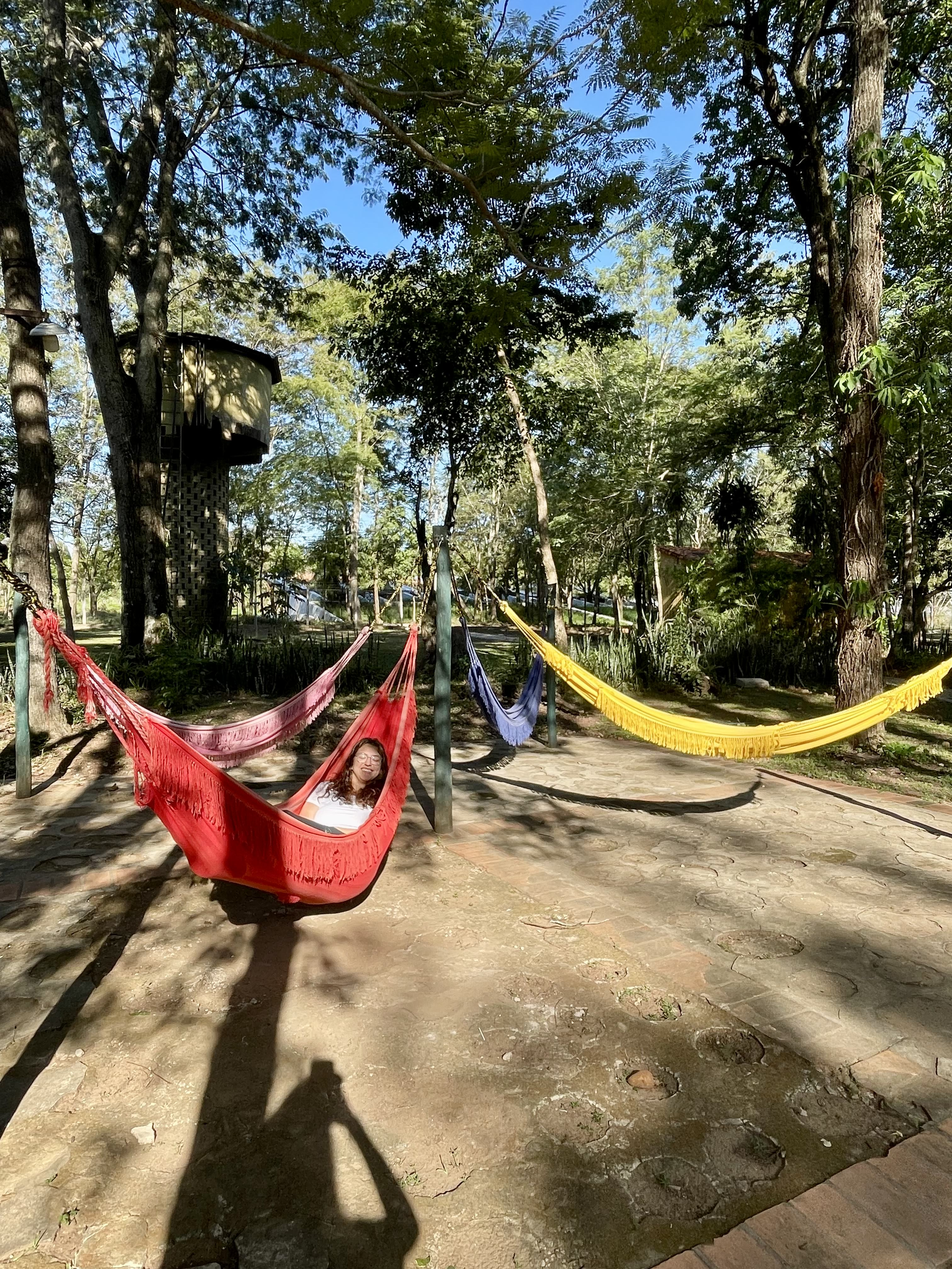
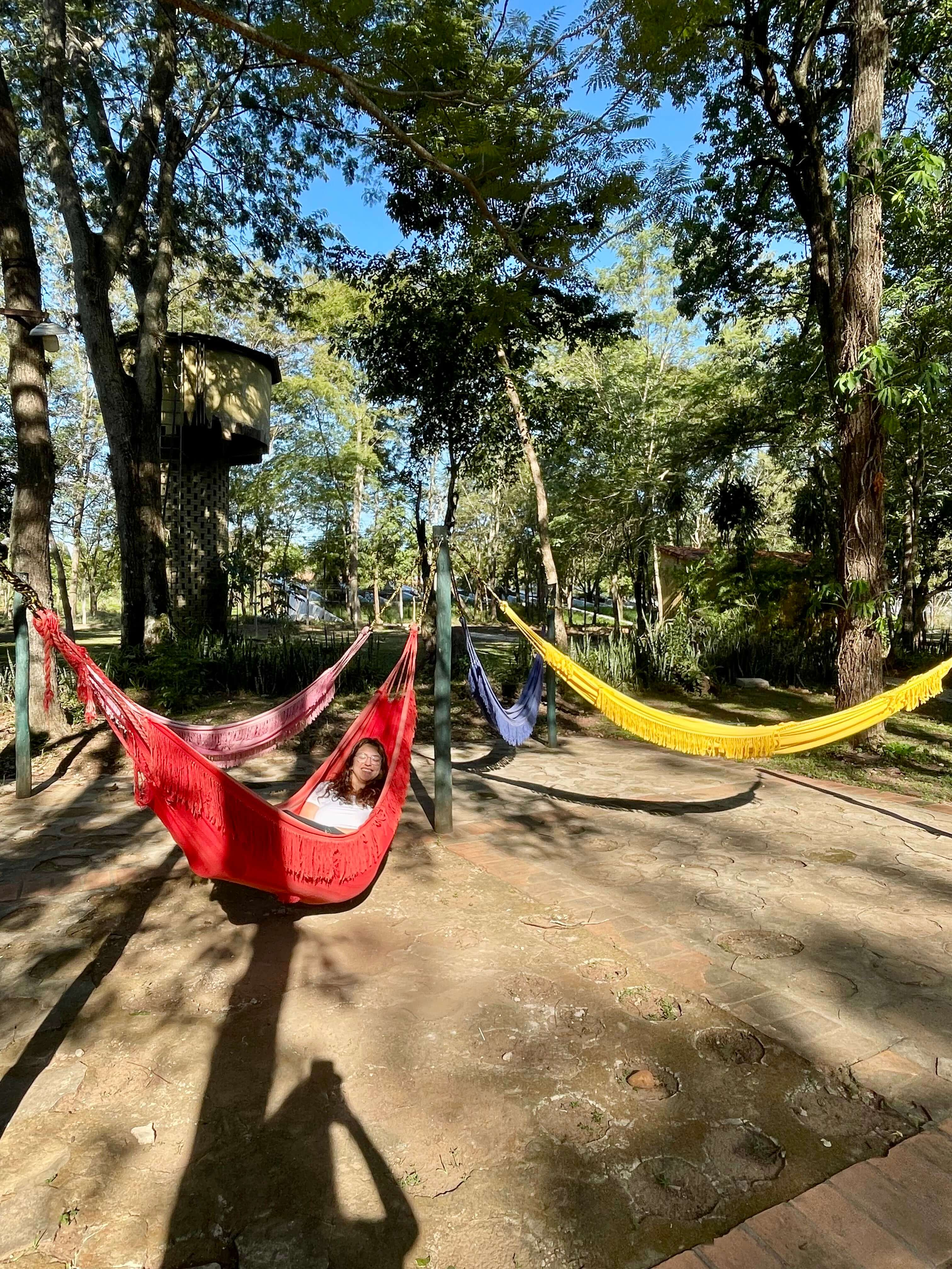
Compressed a lot of the images to reduce base size

diff --git a/app/(drawer)/Activities.tsx b/app/(drawer)/Activities.tsx
@@ -19,7 +19,7 @@ const relaxImages = [
 require('../../assets/images/Piscina.jpg'), //pool
 require('../../assets/images/Comedor1.jpg'), //restaurant
 require('../../assets/images/Hammocks.jpg'), //hammocks
-require('../../assets/images/Quincho1.jpg'), //quinchos
+require('../../assets/images/Quincho.jpg'), //quinchos
 require('../../assets/images/Shop.jpg'), //gift shop
 require('../../assets/images/Ejercicios1.jpg'), //exercise
 ];
@@ -32,11 +32,11 @@ const educatImages = [
 ];
 const adventImages = [
   require('../../assets/images/HowlerMonkey.jpeg'), //monkeys
-  require('../../assets/images/Walking.jpg'), //hiking
+  require('../../assets/images/PatioWithStudents.jpg'), //hiking
   require('../../assets/images/Bici.jpg'), //biking
   require('../../assets/images/Horses1.jpeg'), //horses
   require('../../assets/images/Sports1.png'), //sports
-  require('../../assets/images/Playground.png'), //playground
+  require('../../assets/images/Parque.webp'), //playground
 ];
 
 type ActivityCardProps = {

diff --git a/app/(drawer)/tourStops/Capilla.tsx b/app/(drawer)/tourStops/Capilla.tsx
@@ -12,7 +12,7 @@ export default function Capilla() {
       description={t("tour.capilla.description")}
       directions={t("tour.capilla.directions")}
       audioPathKey="capilla"
-      image={require('../../../assets/images/Capilla.jpg')}
+      image={require('../../../assets/images/Capilla.webp')}
       prev={'/(drawer)/tourStops/SectorAcademico' as RelativePathString}
       next={'/(drawer)/tourStops/PatioCentral' as RelativePathString}
     />

diff --git a/app/(drawer)/Tour.tsx b/app/(drawer)/Tour.tsx
@@ -88,7 +88,7 @@ export default function TourStart() {
         images={[
           require('../../assets/images/HotelWithTrees.jpg'),
           require('../../assets/images/CerritoSign.jpeg'),
-          require('../../assets/images/Capilla.jpg'),
+          require('../../assets/images/Capilla.webp'),
         ]}
       /> 
       <AudioPlayer source={audio}/>
